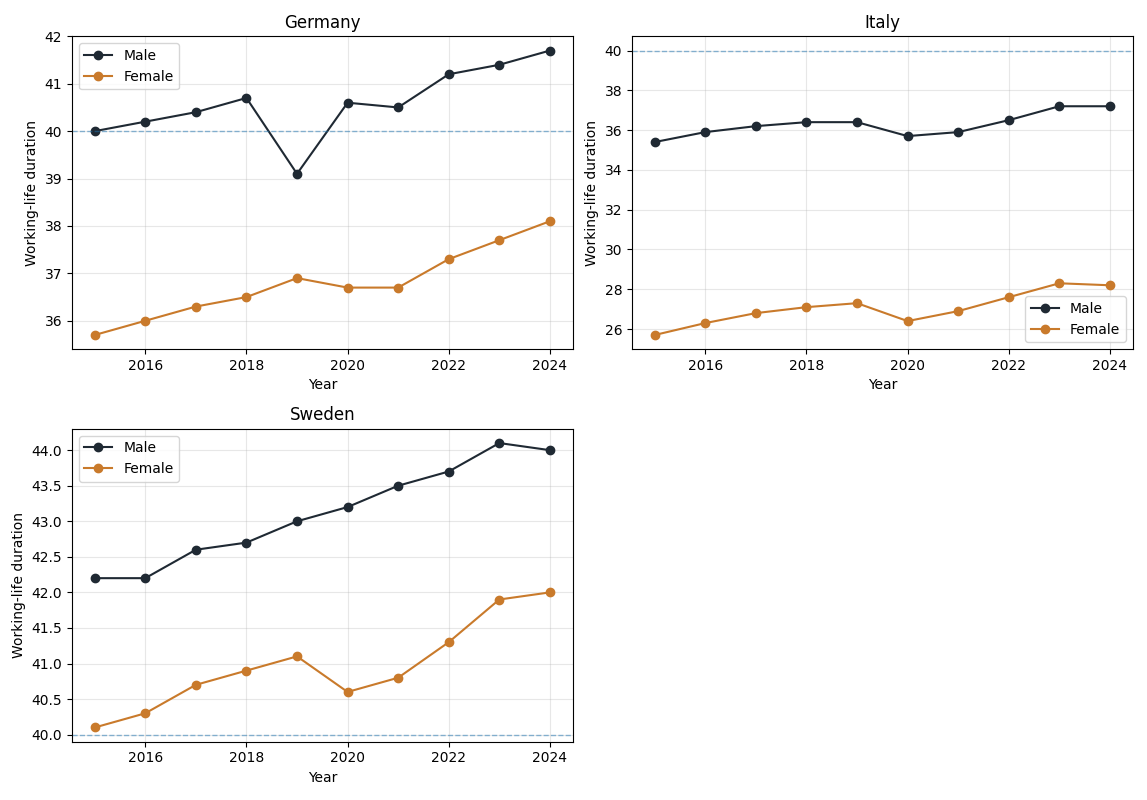
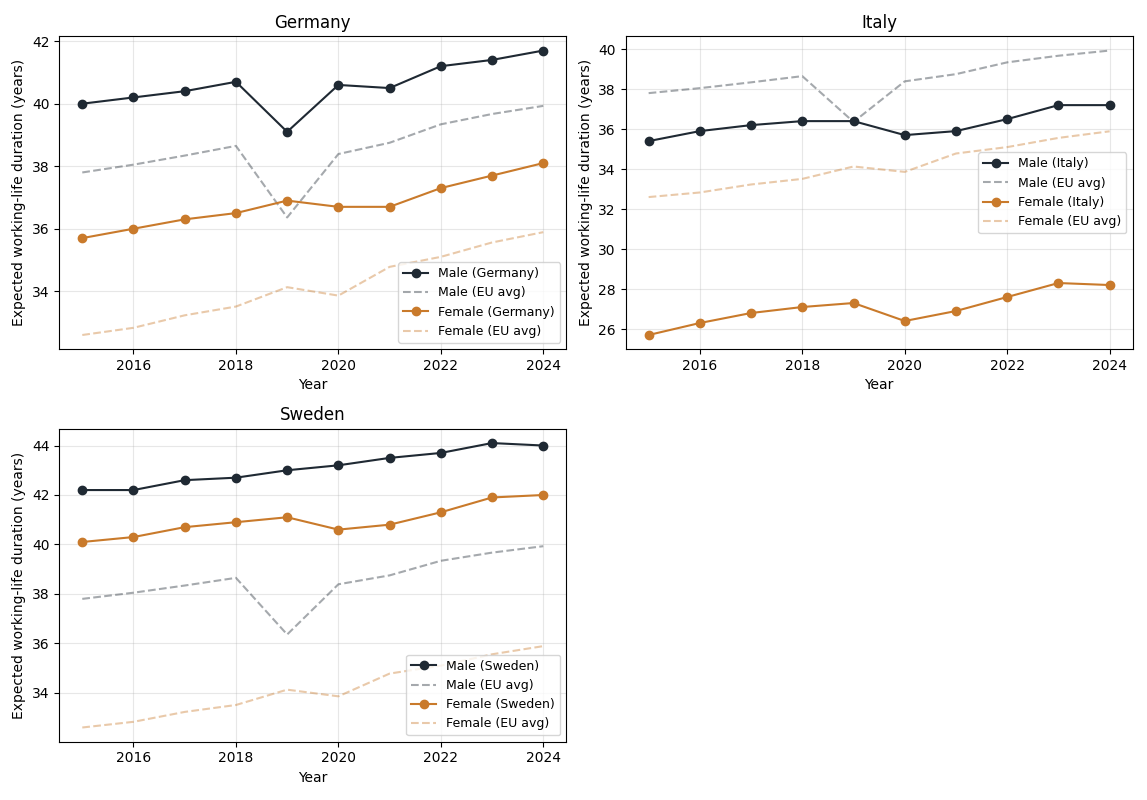
Arrange the charts and their code file name

diff --git a/07_visuals/EU_compare_with_ave_line_code.py b/07_visuals/EU_compare_with_ave_line_code.py
@@ -1,0 +1,94 @@
+import pandas as pd
+import matplotlib.pyplot as plt
+
+ORANGE = "#C97A2B"
+DARK = "#1F2933"
+
+data = [
+    # --- Germany ---
+    ["Germany", 2015, "Male", 40.0], ["Germany", 2016, "Male", 40.2],
+    ["Germany", 2017, "Male", 40.4], ["Germany", 2018, "Male", 40.7],
+    ["Germany", 2019, "Male", 39.1], ["Germany", 2020, "Male", 40.6],
+    ["Germany", 2021, "Male", 40.5], ["Germany", 2022, "Male", 41.2],
+    ["Germany", 2023, "Male", 41.4], ["Germany", 2024, "Male", 41.7],
+    ["Germany", 2015, "Female", 35.7], ["Germany", 2016, "Female", 36.0],
+    ["Germany", 2017, "Female", 36.3], ["Germany", 2018, "Female", 36.5],
+    ["Germany", 2019, "Female", 36.9], ["Germany", 2020, "Female", 36.7],
+    ["Germany", 2021, "Female", 36.7], ["Germany", 2022, "Female", 37.3],
+    ["Germany", 2023, "Female", 37.7], ["Germany", 2024, "Female", 38.1],
+
+    # --- Italy ---
+    ["Italy", 2015, "Male", 35.4], ["Italy", 2016, "Male", 35.9],
+    ["Italy", 2017, "Male", 36.2], ["Italy", 2018, "Male", 36.4],
+    ["Italy", 2019, "Male", 36.4], ["Italy", 2020, "Male", 35.7],
+    ["Italy", 2021, "Male", 35.9], ["Italy", 2022, "Male", 36.5],
+    ["Italy", 2023, "Male", 37.2], ["Italy", 2024, "Male", 37.2],
+    ["Italy", 2015, "Female", 25.7], ["Italy", 2016, "Female", 26.3],
+    ["Italy", 2017, "Female", 26.8], ["Italy", 2018, "Female", 27.1],
+    ["Italy", 2019, "Female", 27.3], ["Italy", 2020, "Female", 26.4],
+    ["Italy", 2021, "Female", 26.9], ["Italy", 2022, "Female", 27.6],
+    ["Italy", 2023, "Female", 28.3], ["Italy", 2024, "Female", 28.2],
+
+    # --- Sweden ---
+    ["Sweden", 2015, "Male", 42.2], ["Sweden", 2016, "Male", 42.2],
+    ["Sweden", 2017, "Male", 42.6], ["Sweden", 2018, "Male", 42.7],
+    ["Sweden", 2019, "Male", 43.0], ["Sweden", 2020, "Male", 43.2],
+    ["Sweden", 2021, "Male", 43.5], ["Sweden", 2022, "Male", 43.7],
+    ["Sweden", 2023, "Male", 44.1], ["Sweden", 2024, "Male", 44.0],
+    ["Sweden", 2015, "Female", 40.1], ["Sweden", 2016, "Female", 40.3],
+    ["Sweden", 2017, "Female", 40.7], ["Sweden", 2018, "Female", 40.9],
+    ["Sweden", 2019, "Female", 41.1], ["Sweden", 2020, "Female", 40.6],
+    ["Sweden", 2021, "Female", 40.8], ["Sweden", 2022, "Female", 41.3],
+    ["Sweden", 2023, "Female", 41.9], ["Sweden", 2024, "Female", 42.0],
+
+    # --- EU Average ---
+    ["EU Average", 2015, "Male", 37.8], ["EU Average", 2016, "Male", 38.05],
+    ["EU Average", 2017, "Male", 38.34], ["EU Average", 2018, "Male", 38.65],
+    ["EU Average", 2019, "Male", 36.36], ["EU Average", 2020, "Male", 38.39],
+    ["EU Average", 2021, "Male", 38.75], ["EU Average", 2022, "Male", 39.34],
+    ["EU Average", 2023, "Male", 39.67], ["EU Average", 2024, "Male", 39.93],
+    ["EU Average", 2015, "Female", 32.60], ["EU Average", 2016, "Female", 32.83],
+    ["EU Average", 2017, "Female", 33.23], ["EU Average", 2018, "Female", 33.51],
+    ["EU Average", 2019, "Female", 34.13], ["EU Average", 2020, "Female", 33.86],
+    ["EU Average", 2021, "Female", 34.78], ["EU Average", 2022, "Female", 35.10],
+    ["EU Average", 2023, "Female", 35.56], ["EU Average", 2024, "Female", 35.89],
+]
+
+df = pd.DataFrame(data, columns=["Country", "Year", "Gender", "Duration"])
+
+countries = ["Germany", "Italy", "Sweden"]
+
+plt.figure(figsize=(12, 8))
+
+for i, country in enumerate(countries, 1):
+    plt.subplot(2, 2, i)
+
+    country_df = df[df["Country"] == country]
+    eu_df = df[df["Country"] == "EU Average"]
+
+    for gender in ["Male", "Female"]:
+        cdata = country_df[country_df["Gender"] == gender]
+        plt.plot(
+            cdata["Year"], cdata["Duration"],
+            marker="o",
+            color=DARK if gender == "Male" else ORANGE,
+            label=f"{gender} ({country})"
+        )
+
+        edata = eu_df[eu_df["Gender"] == gender]
+        plt.plot(
+            edata["Year"], edata["Duration"],
+            linestyle="--",
+            color=DARK if gender == "Male" else ORANGE,
+            alpha=0.4,
+            label=f"{gender} (EU avg)"
+        )
+
+    plt.title(country)
+    plt.xlabel("Year")
+    plt.ylabel("Expected working-life duration (years)")
+    plt.grid(alpha=0.3)
+    plt.legend(fontsize=9)
+
+plt.tight_layout()
+plt.show()
